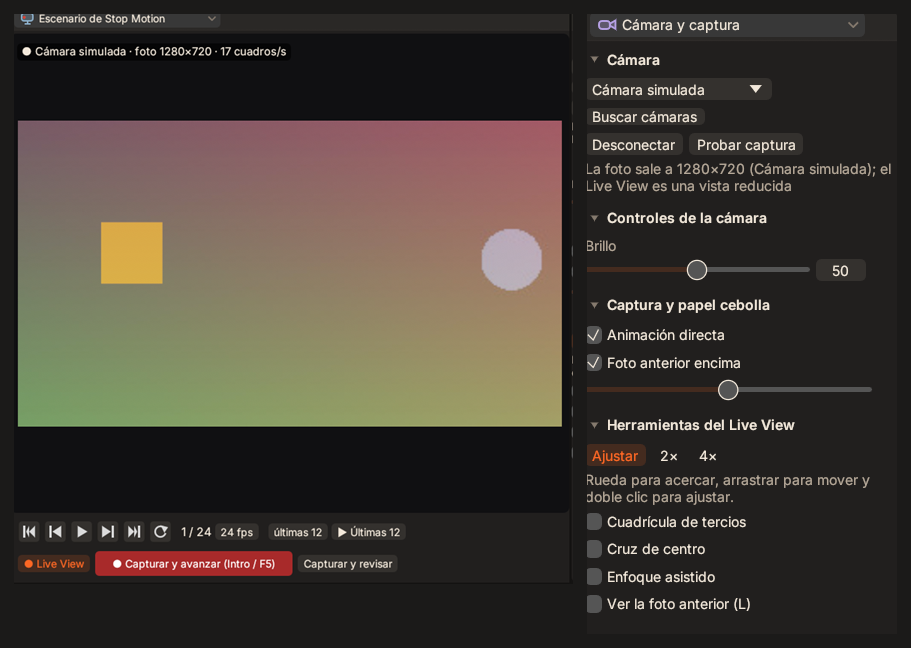
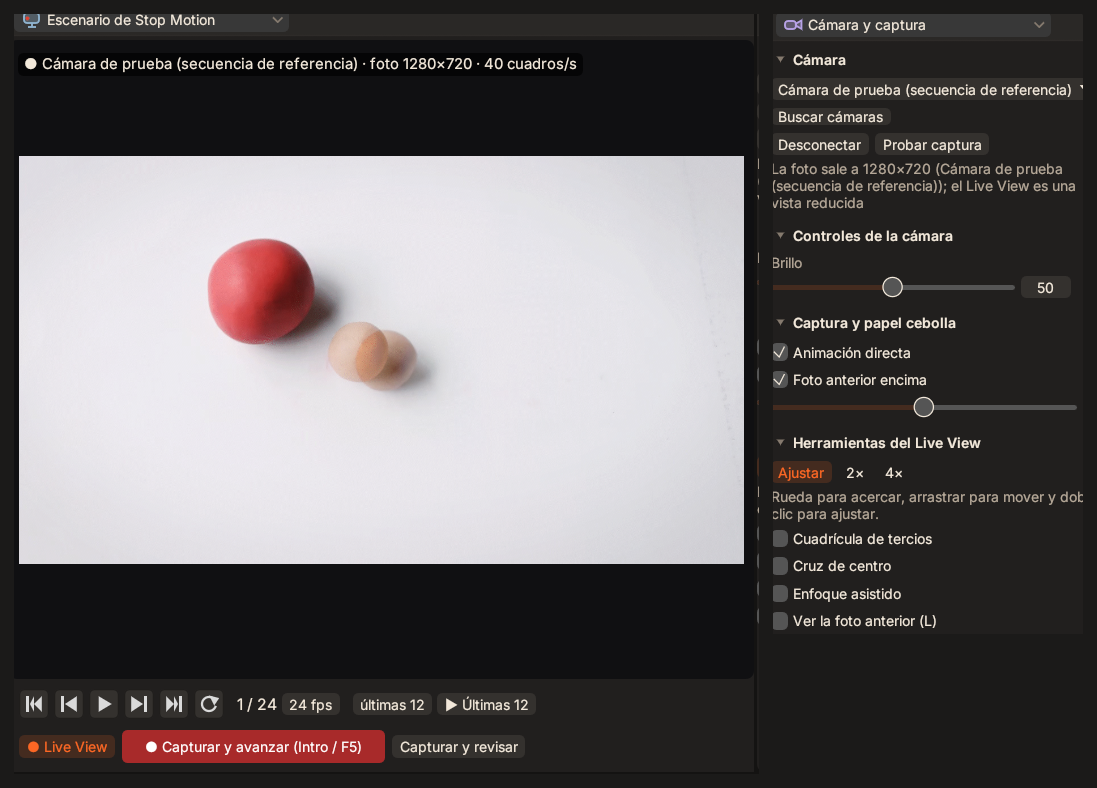
Stop Motion: camara de prueba con la secuencia de referencia (Refs #122)

diff --git a/app/src/capture/mock.rs b/app/src/capture/mock.rs
@@ -13,11 +13,13 @@ pub struct MockProvider {
     pub jpeg: bool,
     /// Si es false, el dispositivo no declara ningún control.
     pub with_controls: bool,
+    /// Carpeta con una secuencia de imágenes de referencia: la cámara las muestra en bucle (a 4 por segundo) en vez del degradado.
+    pub frames_dir: Option<std::path::PathBuf>,
 }
 
 impl Default for MockProvider {
     fn default() -> Self {
-        MockProvider { width: 1280, height: 720, fail_after: None, jpeg: true, with_controls: true }
+        MockProvider { width: 1280, height: 720, fail_after: None, jpeg: true, with_controls: true, frames_dir: None }
     }
 }
 
@@ -27,14 +29,21 @@ impl CaptureProvider for MockProvider {
     }
 
     fn list(&self) -> Result<Vec<DeviceInfo>, String> {
-        Ok(vec![DeviceInfo { id: "simulada:0".into(), name: "Cámara simulada".into(), provider: "simulada".into() }])
+        Ok(vec![DeviceInfo { id: "simulada:0".into(), name: if self.frames_dir.is_some() { "Cámara de prueba (secuencia de referencia)".into() } else { "Cámara simulada".into() }, provider: "simulada".into() }])
     }
 
     fn open(&self, id: &str) -> Result<Box<dyn CaptureDevice>, String> {
         if id != "simulada:0" {
             return Err(format!("no existe el dispositivo {id}"));
         }
-        Ok(Box::new(MockDevice { cfg: self.clone(), n: 0, brightness: 50 }))
+        let mut files: Vec<std::path::PathBuf> = self
+            .frames_dir
+            .as_ref()
+            .and_then(|d| std::fs::read_dir(d).ok())
+            .map(|rd| rd.filter_map(|e| e.ok()).map(|e| e.path()).filter(|p| p.extension().is_some_and(|x| x.eq_ignore_ascii_case("png") || x.eq_ignore_ascii_case("jpg"))).collect())
+            .unwrap_or_default();
+        files.sort();
+        Ok(Box::new(MockDevice { cfg: self.clone(), n: 0, brightness: 50, files, start: std::time::Instant::now() }))
     }
 }
 
@@ -42,6 +51,8 @@ struct MockDevice {
     cfg: MockProvider,
     n: u64,
     brightness: i64,
+    files: Vec<std::path::PathBuf>,
+    start: std::time::Instant,
 }
 
 impl CaptureDevice for MockDevice {
@@ -58,6 +69,20 @@ impl CaptureDevice for MockDevice {
         }
         std::thread::sleep(std::time::Duration::from_millis(8));
         self.n += 1;
+        if !self.files.is_empty() {
+            let i = (self.start.elapsed().as_millis() / 250) as usize % self.files.len();
+            let mut img = image::open(&self.files[i]).map_err(|e| e.to_string())?.to_rgb8();
+            let (w, h) = (img.width(), img.height());
+            let lum = (self.brightness as f32 / 50.0).clamp(0.0, 2.0);
+            if (lum - 1.0).abs() > 0.01 {
+                for p in img.pixels_mut() {
+                    for c in p.0.iter_mut() {
+                        *c = (*c as f32 * lum).min(255.0) as u8;
+                    }
+                }
+            }
+            return Ok(RawFrame { width: w, height: h, data: img.into_raw(), jpeg: false });
+        }
         let (w, h) = (self.cfg.width, self.cfg.height);
         let mut img = image::RgbImage::new(w, h);
         let lum = (self.brightness as f32 / 50.0).clamp(0.0, 2.0);

diff --git a/app/src/app.rs b/app/src/app.rs
@@ -593,8 +593,26 @@ impl LeonApp {
         // con LEONTOON_SMFALTA=1 la capa apunta a una carpeta que no existe (para ver el aviso).
         if let Ok(dir) = std::env::var("LEONTOON_STOPMOTION") {
             let dir = std::path::PathBuf::from(dir);
-            if let Ok(mut f) = crate::stopmotion::SeqFolder::create(&dir, "Escena de prueba", 12) {
-                for i in 0..14u32 {
+            // LEONTOON_SMFOTOS=<carpeta> usa esas imágenes (en orden) como fotos de la secuencia en vez de las generadas.
+            let refs: Vec<std::path::PathBuf> = std::env::var("LEONTOON_SMFOTOS")
+                .ok()
+                .and_then(|d| std::fs::read_dir(d).ok())
+                .map(|rd| {
+                    let mut v: Vec<_> = rd.filter_map(|e| e.ok()).map(|e| e.path()).filter(|p| p.extension().is_some_and(|x| x.eq_ignore_ascii_case("png") || x.eq_ignore_ascii_case("jpg"))).collect();
+                    v.sort();
+                    v
+                })
+                .unwrap_or_default();
+            if let Ok(mut f) = crate::stopmotion::SeqFolder::create(&dir, "Escena de prueba", if refs.is_empty() { 12 } else { 24 }) {
+                for p in refs.iter().take(24) {
+                    if let Ok(img) = image::open(p) {
+                        let mut bytes = Vec::new();
+                        if image::codecs::jpeg::JpegEncoder::new_with_quality(&mut bytes, 90).encode_image(&img.to_rgb8()).is_ok() {
+                            let _ = f.append_photo(&bytes, None);
+                        }
+                    }
+                }
+                for i in 0..(if refs.is_empty() { 14u32 } else { 0 }) {
                     // Una bola blanca que avanza de foto en foto sobre un fondo que cambia de color: se nota el movimiento.
                     let (cx, cy) = (30.0 + i as f32 * 20.0, 90.0 - (i as f32 * 0.5).sin() * 40.0);
                     let img = image::RgbImage::from_fn(320, 180, |x, y| {

diff --git a/app/src/capture/mod.rs b/app/src/capture/mod.rs
@@ -72,7 +72,15 @@ pub trait CaptureProvider: Send + Sync {
 /// Todos los proveedores disponibles. `LEONTOON_FAKECAM=1` usa solo la cámara simulada (para probar sin tocar ninguna cámara real).
 pub fn providers() -> Vec<Arc<dyn CaptureProvider>> {
     if std::env::var("LEONTOON_FAKECAM").is_ok() {
-        return vec![Arc::new(MockProvider::default())];
+        // LEONTOON_FAKECAM=<carpeta> (o la carpeta referencia/Sec_Ref_Stop_Motion, si existe) muestra esa secuencia como si fuera la cámara.
+        let v = std::env::var("LEONTOON_FAKECAM").unwrap_or_default();
+        let custom = std::path::PathBuf::from(&v);
+        let dir = if !v.is_empty() && v != "1" && custom.is_dir() {
+            Some(custom)
+        } else {
+            ["referencia/Sec_Ref_Stop_Motion", "../referencia/Sec_Ref_Stop_Motion"].into_iter().map(std::path::PathBuf::from).find(|p| p.is_dir())
+        };
+        return vec![Arc::new(MockProvider { frames_dir: dir, ..MockProvider::default() })];
     }
     vec![Arc::new(WebcamProvider)]
 }
